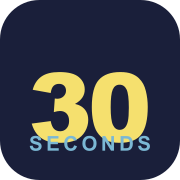
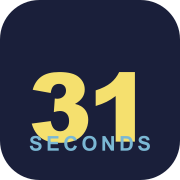
Rename 30 Seconds to 31 Seconds throughout app

Changed region(s): [[0.5, 0.3889, 0.75, 0.8056], [0.75, 0.4167, 0.8333, 0.7778], [0.6944, 0.3889, 0.75, 0.4167]]

diff --git a/src/components/GamePiece.jsx b/src/components/GamePiece.jsx
@@ -1,65 +1,125 @@
-export default function GamePiece({ color, size = 72, rotation = 0, opacity = 1 }) {
-  const id = `gp-${color.replace(/[^a-z0-9]/gi, '')}-${size}`
+export default function GamePiece({ color, size = 72, rotation = 0, style = {} }) {
+  const uid = `disc-${color.replace(/[^a-z0-9]/gi, '')}-${size}`
+
+  // Circular text path — starts at 9 o'clock, goes clockwise, r=37 sits inside the rim
+  const r = 37
+  const textPath = `M50,50 m-${r},0 a${r},${r} 0 1,1 ${r * 2},0 a${r},${r} 0 1,1 -${r * 2},0`
 
   return (
     <svg
       width={size}
-      height={size * 1.5}
-      viewBox="0 0 56 84"
+      height={size}
+      viewBox="0 0 100 100"
       xmlns="http://www.w3.org/2000/svg"
-      style={{ transform: `rotate(${rotation}deg)`, opacity, display: 'block', flexShrink: 0 }}
+      style={{ transform: `rotate(${rotation}deg)`, display: 'block', flexShrink: 0, overflow: 'visible', ...style }}
     >
       <defs>
-        <radialGradient id={`${id}-head`} cx="38%" cy="32%" r="60%">
-          <stop offset="0%" stopColor="rgba(255,255,255,0.45)" />
-          <stop offset="100%" stopColor="rgba(0,0,0,0.15)" />
+        {/* Emboss filter — simulates raised plastic surface on text */}
+        <filter id={`${uid}-emboss`} x="-10%" y="-10%" width="120%" height="120%">
+          <feGaussianBlur in="SourceAlpha" stdDeviation="0.6" result="blur" />
+          <feOffset dx="1" dy="1.2" result="shadow" />
+          <feOffset dx="-0.7" dy="-0.8" in="SourceAlpha" result="highlight-offset" />
+          <feFlood floodColor="rgba(0,0,0,0.55)" result="shadow-color" />
+          <feFlood floodColor="rgba(255,255,255,0.55)" result="highlight-color" />
+          <feComposite in="shadow-color"    in2="shadow"          operator="in" result="shadow-fill" />
+          <feComposite in="highlight-color" in2="highlight-offset" operator="in" result="highlight-fill" />
+          <feMerge>
+            <feMergeNode in="shadow-fill" />
+            <feMergeNode in="highlight-fill" />
+          </feMerge>
+        </filter>
+
+        {/* Disc face lighting: strong highlight top-left, dark bottom-right */}
+        <radialGradient id={`${uid}-light`} cx="32%" cy="26%" r="72%">
+          <stop offset="0%"   stopColor="rgba(255,255,255,0.50)" />
+          <stop offset="40%"  stopColor="rgba(255,255,255,0.10)" />
+          <stop offset="100%" stopColor="rgba(0,0,0,0.40)" />
         </radialGradient>
-        <radialGradient id={`${id}-body`} cx="30%" cy="30%" r="70%">
-          <stop offset="0%" stopColor="rgba(255,255,255,0.25)" />
-          <stop offset="100%" stopColor="rgba(0,0,0,0.2)" />
+
+        {/* Rim darkening — feathers in from the outer edge */}
+        <radialGradient id={`${uid}-rim`} cx="50%" cy="50%" r="50%">
+          <stop offset="68%"  stopColor="rgba(0,0,0,0)" />
+          <stop offset="84%"  stopColor="rgba(0,0,0,0.28)" />
+          <stop offset="100%" stopColor="rgba(0,0,0,0.62)" />
         </radialGradient>
+
+        {/* Inner recess shadow — thin ring just inside the rim */}
+        <radialGradient id={`${uid}-recess`} cx="50%" cy="50%" r="50%">
+          <stop offset="62%"  stopColor="rgba(0,0,0,0)" />
+          <stop offset="74%"  stopColor="rgba(0,0,0,0.30)" />
+          <stop offset="78%"  stopColor="rgba(0,0,0,0)" />
+        </radialGradient>
+
+        {/* Text circular path */}
+        <path id={`${uid}-tp`} d={textPath} />
+
+        {/* Clip to disc shape */}
+        <clipPath id={`${uid}-clip`}>
+          <circle cx="50" cy="50" r="46" />
+        </clipPath>
       </defs>
 
-      {/* Drop shadow */}
-      <ellipse cx="28" cy="81" rx="18" ry="4" fill="rgba(0,0,0,0.25)" />
+      {/* ── Drop shadow ── */}
+      <ellipse cx="52" cy="97" rx="40" ry="5" fill="rgba(0,0,0,0.30)" />
 
-      {/* Body — classic pawn silhouette */}
-      <path
-        d="M28 32
-           C21 32 17 37 17 43
-           C17 50 13 58 11 67
-           C9 74 15 78 28 78
-           C41 78 47 74 45 67
-           C43 58 39 50 39 43
-           C39 37 35 32 28 32 Z"
-        fill={color}
-      />
-      <path
-        d="M28 32
-           C21 32 17 37 17 43
-           C17 50 13 58 11 67
-           C9 74 15 78 28 78
-           C41 78 47 74 45 67
-           C43 58 39 50 39 43
-           C39 37 35 32 28 32 Z"
-        fill={`url(#${id}-body)`}
-      />
+      {/* ── Disc edge / thickness (4 offset layers, each darkened) ── */}
+      <g clipPath={`url(#${uid}-clip)`}>
+        <circle cx="50" cy="55.5" r="46" fill={color} opacity="0.40" />
+        <circle cx="50" cy="54.0" r="46" fill={color} opacity="0.55" />
+        <circle cx="50" cy="52.5" r="46" fill={color} opacity="0.70" />
+        <circle cx="50" cy="51.2" r="46" fill={color} opacity="0.85" />
+      </g>
 
-      {/* Neck */}
-      <rect x="22" y="29" width="12" height="6" rx="3" fill={color} />
+      {/* ── Main disc face ── */}
+      <circle cx="50" cy="50" r="46" fill={color} />
 
-      {/* Head */}
-      <circle cx="28" cy="18" r="14" fill={color} />
-      <circle cx="28" cy="18" r="14" fill={`url(#${id}-head)`} />
+      {/* ── 3D face lighting ── */}
+      <circle cx="50" cy="50" r="46" fill={`url(#${uid}-light)`} />
 
-      {/* Specular highlight on head */}
+      {/* ── Raised rim: dark gradient feathering in from edge ── */}
+      <circle cx="50" cy="50" r="46" fill={`url(#${uid}-rim)`} />
+
+      {/* ── Inner recess groove (thin shadow ring just inside rim) ── */}
+      <circle cx="50" cy="50" r="46" fill={`url(#${uid}-recess)`} />
+
+      {/* ── Rim inner lip highlight ── */}
+      <circle cx="50" cy="50" r="37.5" fill="none" stroke="rgba(255,255,255,0.18)" strokeWidth="1.2" />
+
+      {/* ── Embossed circular text ── */}
+      {/* Dark shadow pass */}
+      <text
+        fontFamily="'Archivo Black', Arial Black, sans-serif"
+        fontSize="8"
+        fontWeight="900"
+        letterSpacing="4.2"
+        fill="rgba(0,0,0,0.60)"
+        dx="1.0" dy="1.2"
+      >
+        <textPath href={`#${uid}-tp`} startOffset="2%">
+          30 SECONDS · 30 SECONDS ·
+        </textPath>
+      </text>
+
+      {/* Light highlight pass */}
+      <text
+        fontFamily="'Archivo Black', Arial Black, sans-serif"
+        fontSize="8"
+        fontWeight="900"
+        letterSpacing="4.2"
+        fill="rgba(255,255,255,0.50)"
+        dx="-0.8" dy="-0.8"
+      >
+        <textPath href={`#${uid}-tp`} startOffset="2%">
+          30 SECONDS · 30 SECONDS ·
+        </textPath>
+      </text>
+
+      {/* ── Rim top-left specular glint ── */}
       <ellipse
-        cx="23"
-        cy="12"
-        rx="5"
-        ry="3.5"
-        fill="rgba(255,255,255,0.5)"
-        transform="rotate(-20 23 12)"
+        cx="28" cy="22"
+        rx="10" ry="6"
+        fill="rgba(255,255,255,0.18)"
+        transform="rotate(-35 28 22)"
       />
     </svg>
   )

diff --git a/src/components/RulesScreen.jsx b/src/components/RulesScreen.jsx
@@ -8,8 +8,8 @@ export default function RulesScreen({ onPlay, onHome }) {
 
       <div className="rules-header">
         <p className="rules-eyebrow">HOW TO PLAY</p>
-        <h1 className="rules-title">30 SECONDS</h1>
-        <p className="rules-tagline">One card. Five clues. Thirty seconds.<br />No skipping. No nonsense.</p>
+        <h1 className="rules-title">31 SECONDS</h1>
+        <p className="rules-tagline">One card. Five clues. Thirty-one seconds.<br />No skipping. No nonsense.</p>
       </div>
 
       <div className="rules-cards">
@@ -17,7 +17,7 @@ export default function RulesScreen({ onPlay, onHome }) {
           <span className="rule-number">01</span>
           <div className="rule-text">
             <h2>DESCRIBE IT</h2>
-            <p>One player from your team has 30 seconds to describe all 5 clues — without saying the word itself.</p>
+            <p>One player from your team has 31 seconds to describe all 5 clues — without saying the word itself.</p>
           </div>
         </div>
 

diff --git a/index.html b/index.html
@@ -3,12 +3,12 @@
   <head>
     <meta charset="UTF-8" />
     <meta name="viewport" content="width=device-width, initial-scale=1.0, maximum-scale=1.0, user-scalable=no, viewport-fit=cover" />
-    <title>30 Seconds – Travel Edition</title>
+    <title>31 Seconds – Travel Edition</title>
     <link rel="manifest" href="/manifest.json" />
     <link rel="apple-touch-icon" href="/apple-touch-icon.png" />
     <meta name="apple-mobile-web-app-capable" content="yes" />
     <meta name="apple-mobile-web-app-status-bar-style" content="black-translucent" />
-    <meta name="apple-mobile-web-app-title" content="30 Seconds" />
+    <meta name="apple-mobile-web-app-title" content="31 Seconds" />
     <meta name="theme-color" content="#1A1F3A" />
     <link rel="preconnect" href="https://fonts.googleapis.com" />
     <link rel="preconnect" href="https://fonts.gstatic.com" crossorigin />

diff --git a/src/components/SplashScreen.jsx b/src/components/SplashScreen.jsx
@@ -2,13 +2,13 @@ import { useState, useEffect } from 'react'
 import './SplashScreen.css'
 
 // Countdown schedule: [fromNumber, interval_ms]
-// Starts fast, slows as it approaches 30
+// Starts fast, slows as it approaches 31
 const SCHEDULE = buildSchedule()
 
 function buildSchedule() {
   const steps = []
-  for (let n = 1; n <= 30; n++) {
-    const dist = 30 - n
+  for (let n = 1; n <= 31; n++) {
+    const dist = 31 - n
     let interval
     if (dist > 20) interval = 18
     else if (dist > 10) interval = 25
@@ -32,8 +32,8 @@ export default function SplashScreen({ onBegin }) {
 
     function tick() {
       if (stepIdx >= SCHEDULE.length) {
-        // Landed on 30
-        setDisplayNum(30)
+        // Landed on 31
+        setDisplayNum(31)
         setLanded(true)
         setTimeout(() => setShowRest(true), 300)
         return

diff --git a/src/components/HomeScreen.jsx b/src/components/HomeScreen.jsx
@@ -4,12 +4,12 @@ export default function HomeScreen({ onHowToPlay, onStartGame }) {
   return (
     <div className="screen home-screen">
       <div className="home-top">
-        <div className="home-logo-mark">30</div>
+        <div className="home-logo-mark">31</div>
         <div className="home-title-block">
           <h1 className="home-title">SECONDS</h1>
           <p className="home-subtitle">TRAVEL EDITION</p>
         </div>
-        <p className="home-tagline">One card. Five clues. Thirty seconds.</p>
+        <p className="home-tagline">One card. Five clues. Thirty-one seconds.</p>
       </div>
 
       <div className="home-actions">

diff --git a/src/components/CardComponent.jsx b/src/components/CardComponent.jsx
@@ -41,7 +41,7 @@ function CardInner({ words, onFlip, timerActive, onStart, teamColor, faceColor, 
     <div className="card-inner" style={{ background: faceColor }}>
       <div className="card-brand-band">
         <div className="card-brand-block">
-          <span className="card-brand-name">30 SECONDS</span>
+          <span className="card-brand-name">31 SECONDS</span>
           <span className="card-brand-edition">TRAVEL EDITION</span>
         </div>
         <button

diff --git a/src/components/GameplayScreen.jsx b/src/components/GameplayScreen.jsx
@@ -3,7 +3,7 @@ import TimerStrip from './TimerStrip.jsx'
 import CardComponent from './CardComponent.jsx'
 import './GameplayScreen.css'
 
-const MAX_TIME = 30
+const MAX_TIME = 31
 
 function getPhase(t, active) {
   if (!active) return 'calm'
